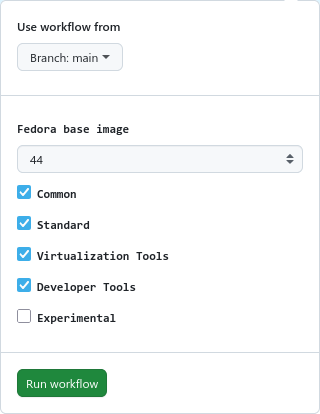
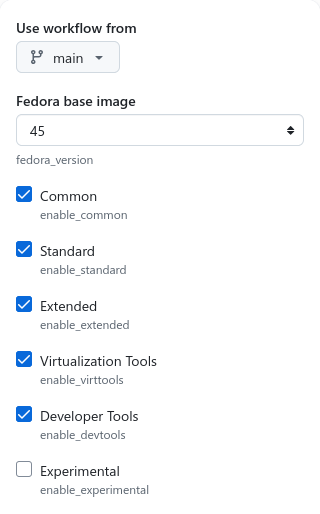
Enhance Quay.io image cleanup process and update README with Docker Hub pulls badge

diff --git a/README.md b/README.md
@@ -65,3 +65,4 @@ Some scripts written and/or modified by Claude and Copilot.
 ---
 
 [![Latest build](https://github.com/itotm/horizon-os/actions/workflows/build.yml/badge.svg)](https://github.com/itotm/horizon-os/actions/workflows/build.yml)
+[![Docker Hub pulls](https://img.shields.io/docker/pulls/itotm/horizon-os?logo=docker&label=Docker%20Hub%20pulls)](https://hub.docker.com/r/itotm/horizon-os)
